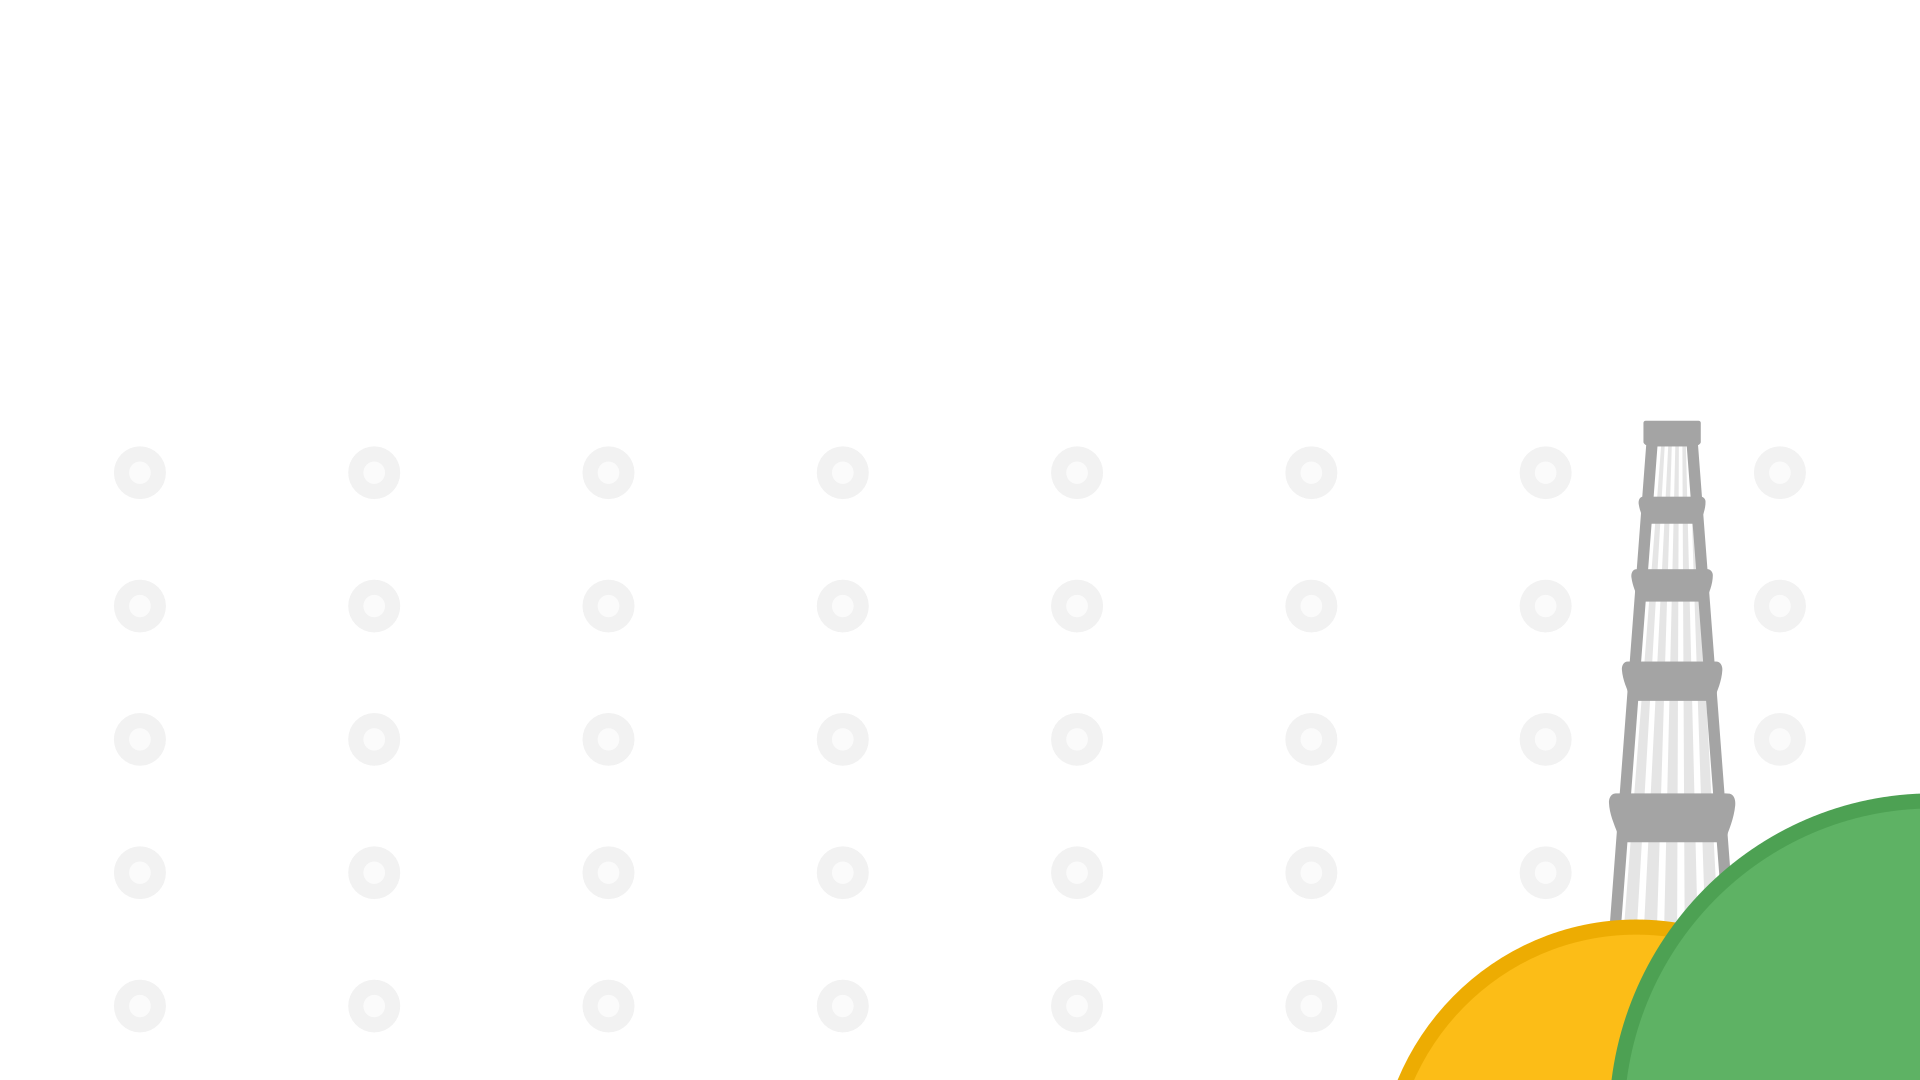
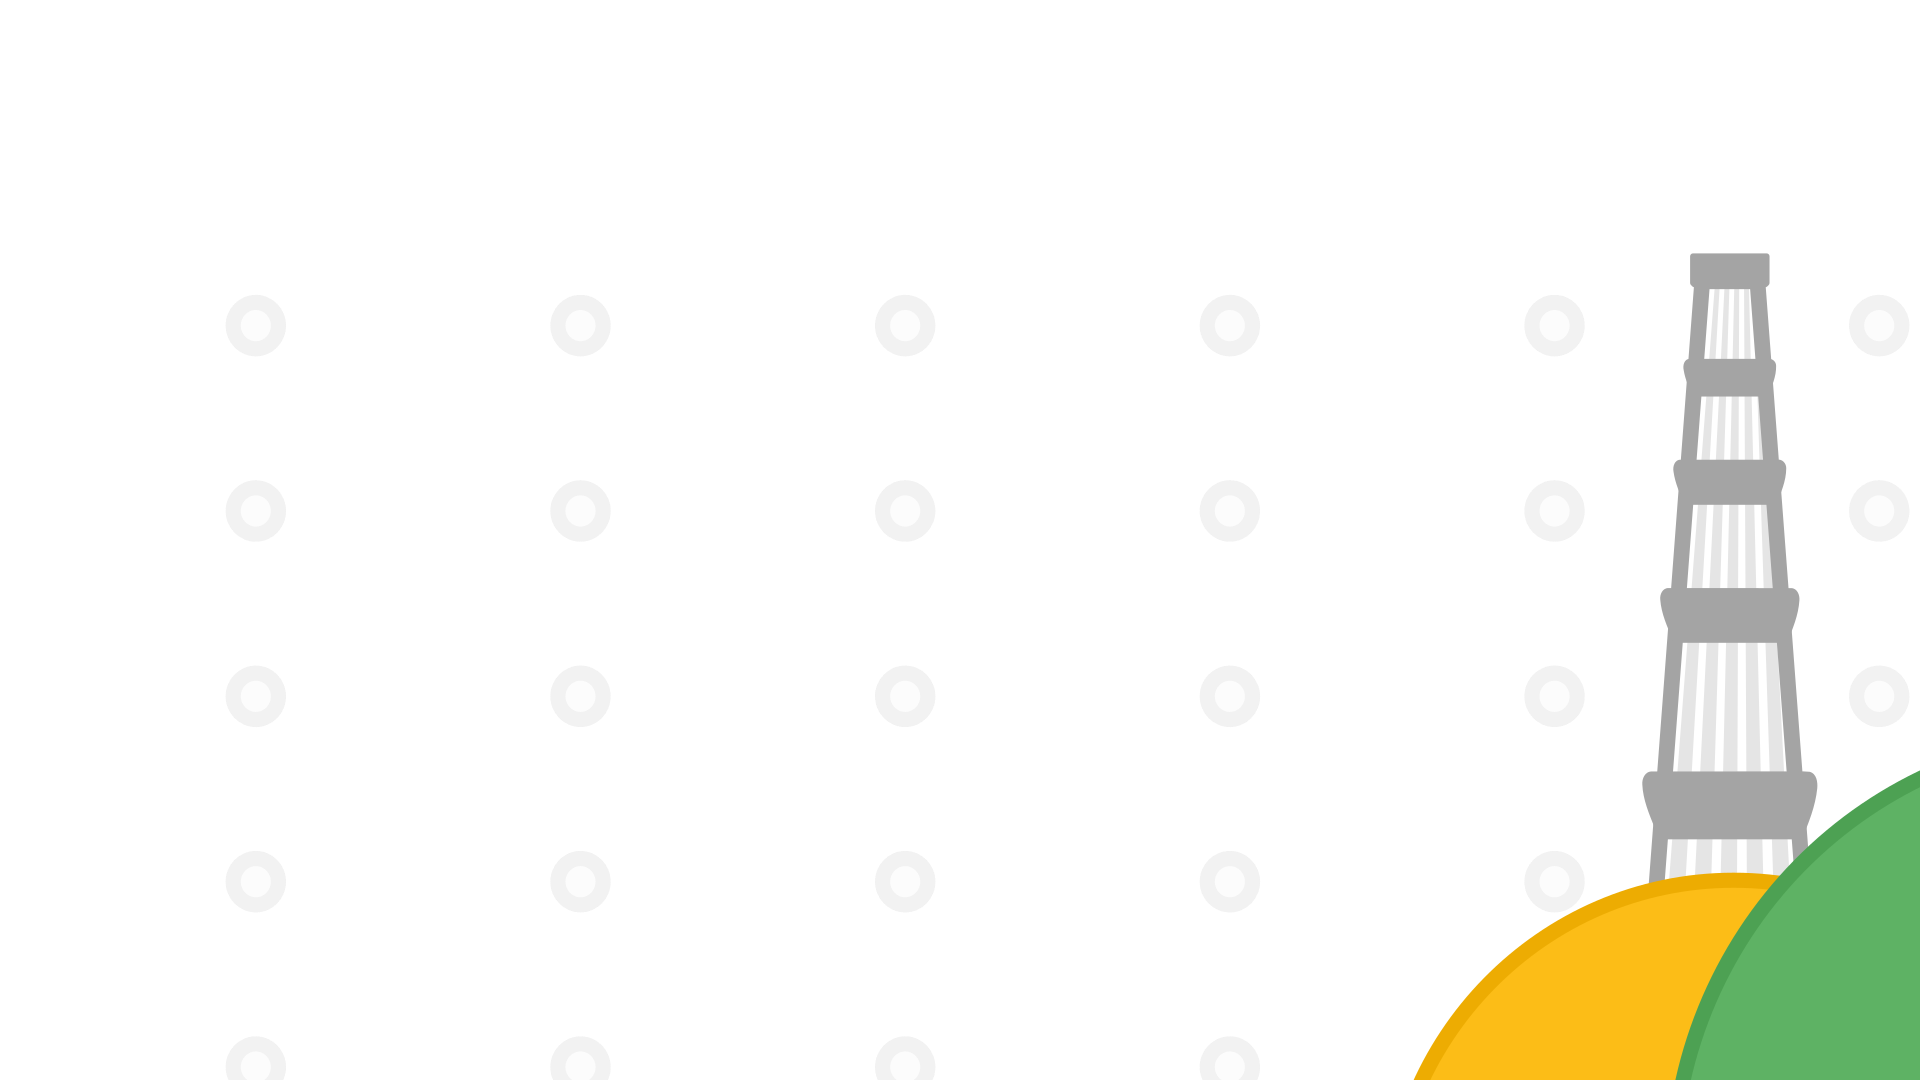
fix background image offset

diff --git a/css/main.css b/css/main.css
@@ -13232,6 +13232,10 @@ div[id^='section-']::before {
   pointer-events: none;
 }
 
+div#section-event-infos::before {
+  content: none;
+}
+
 #speaker-socials {
   margin: 8px 0;
 }
